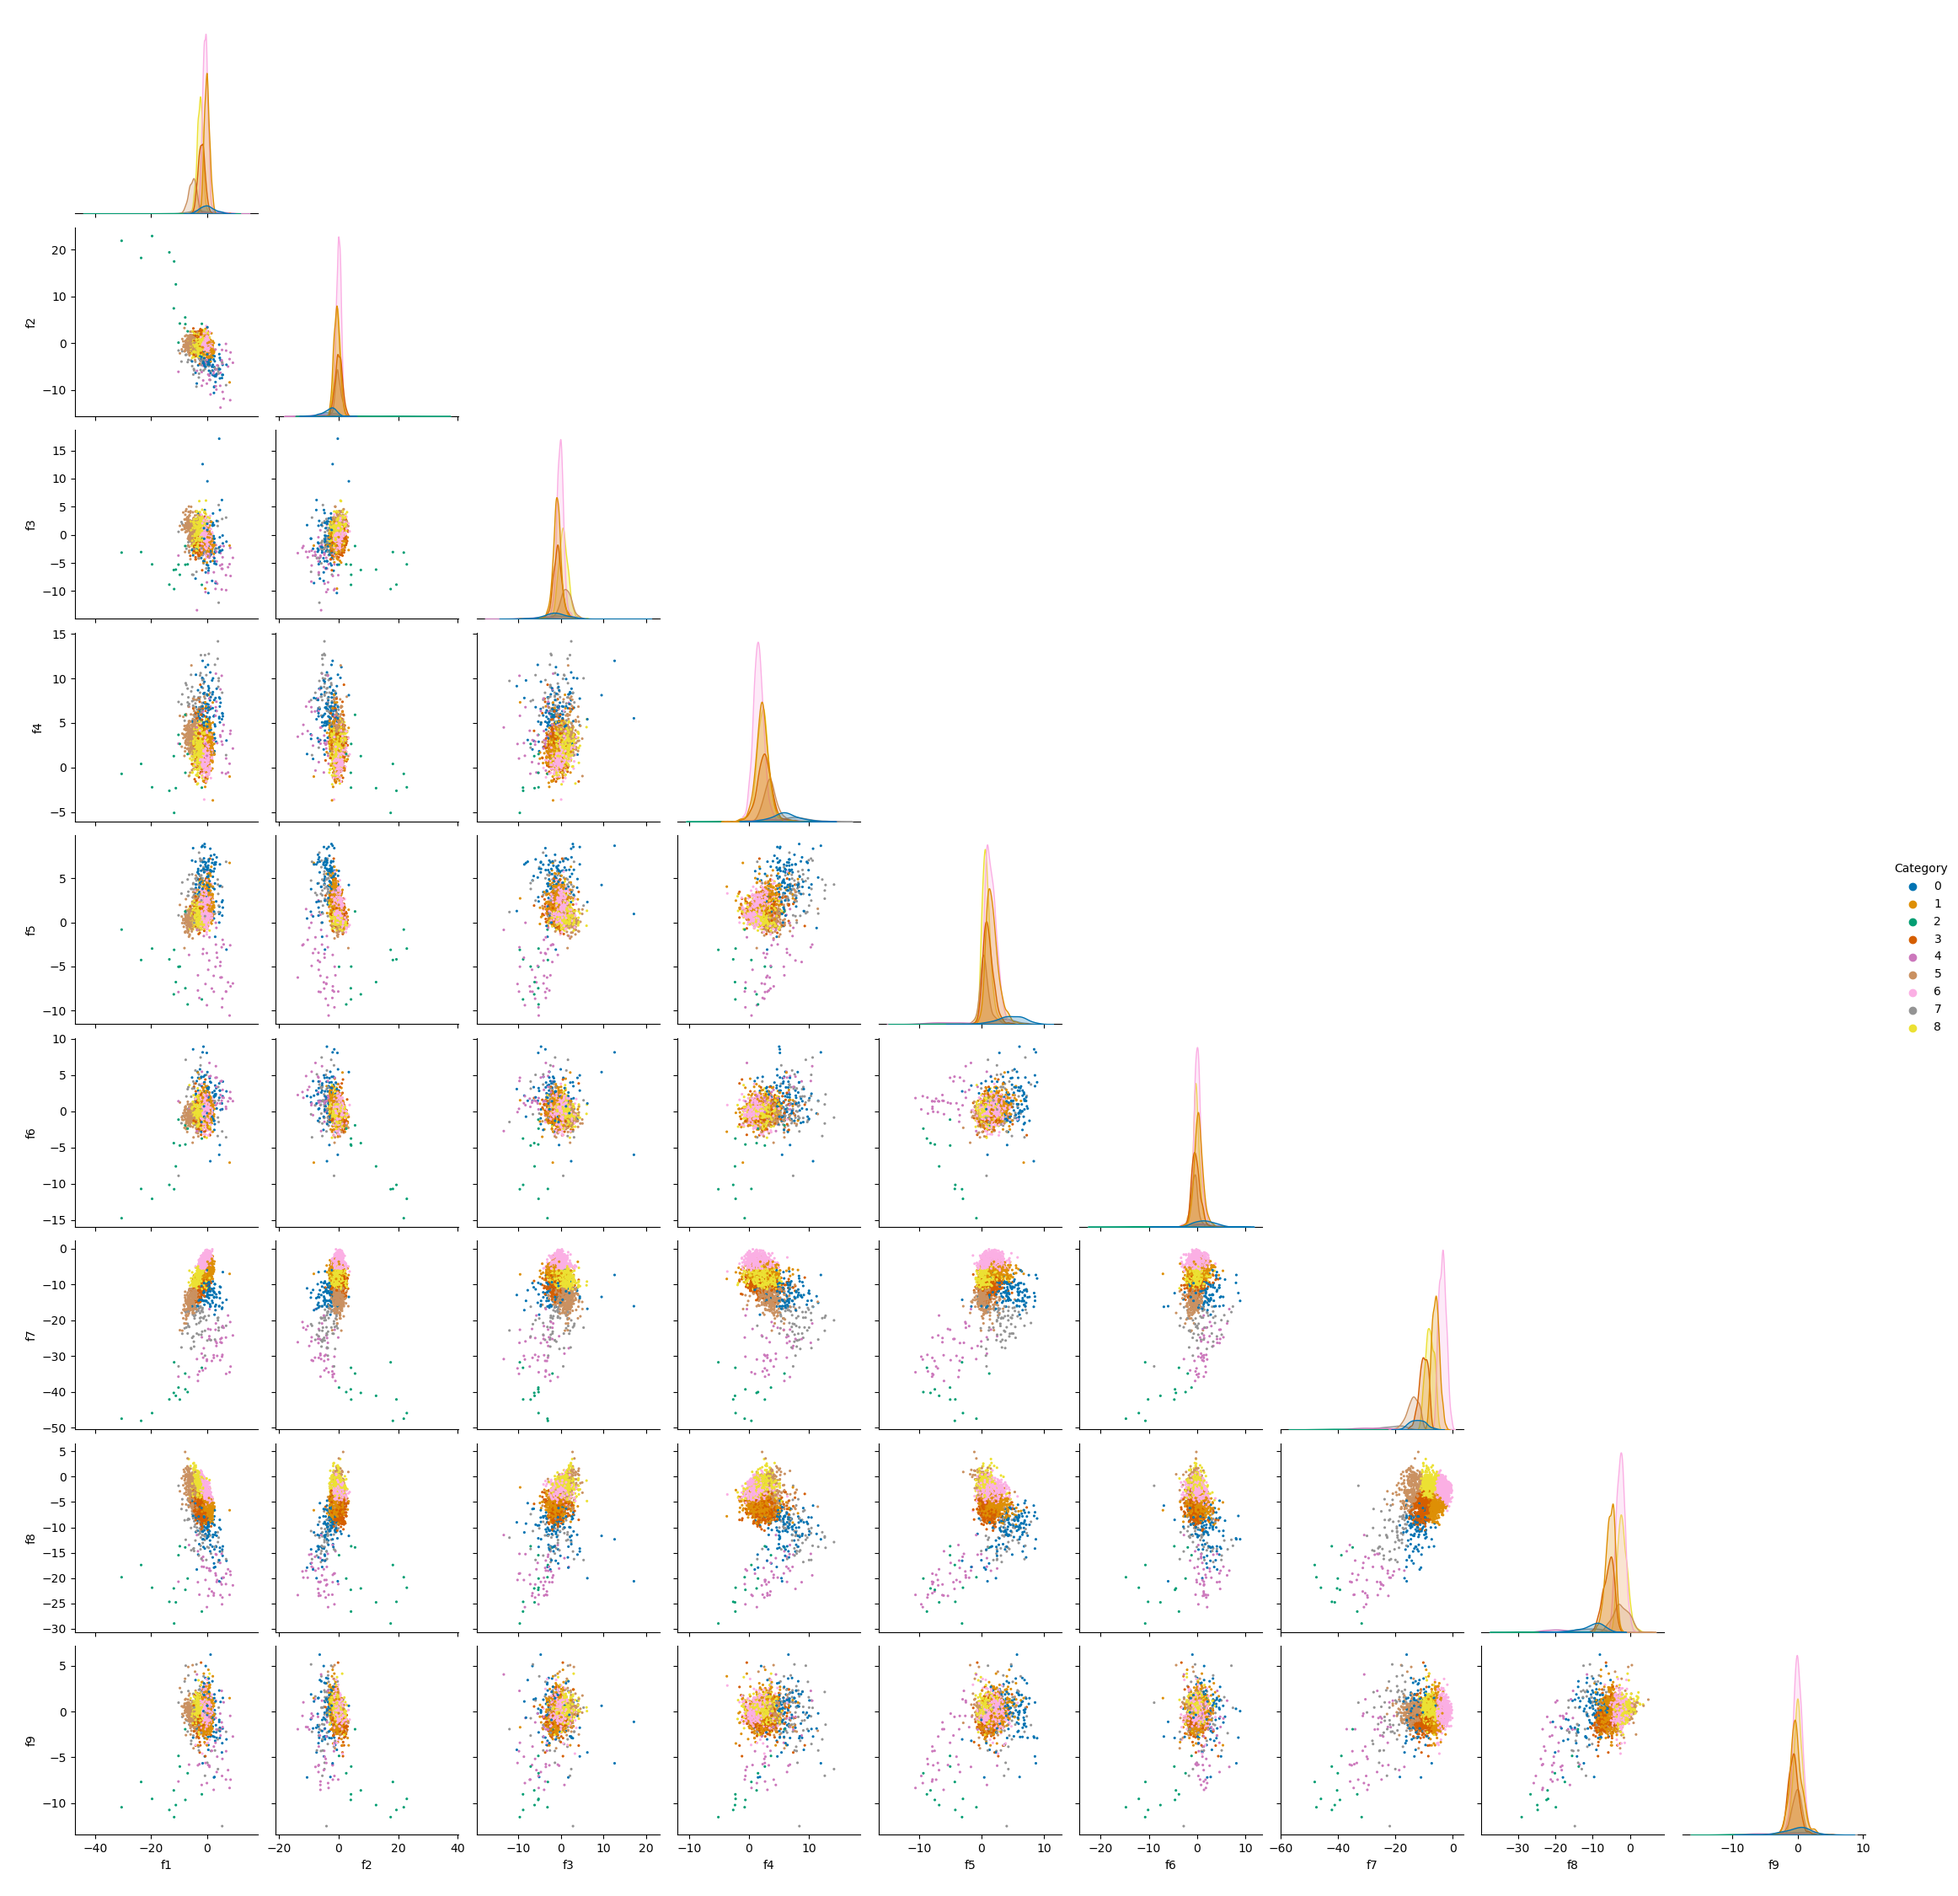
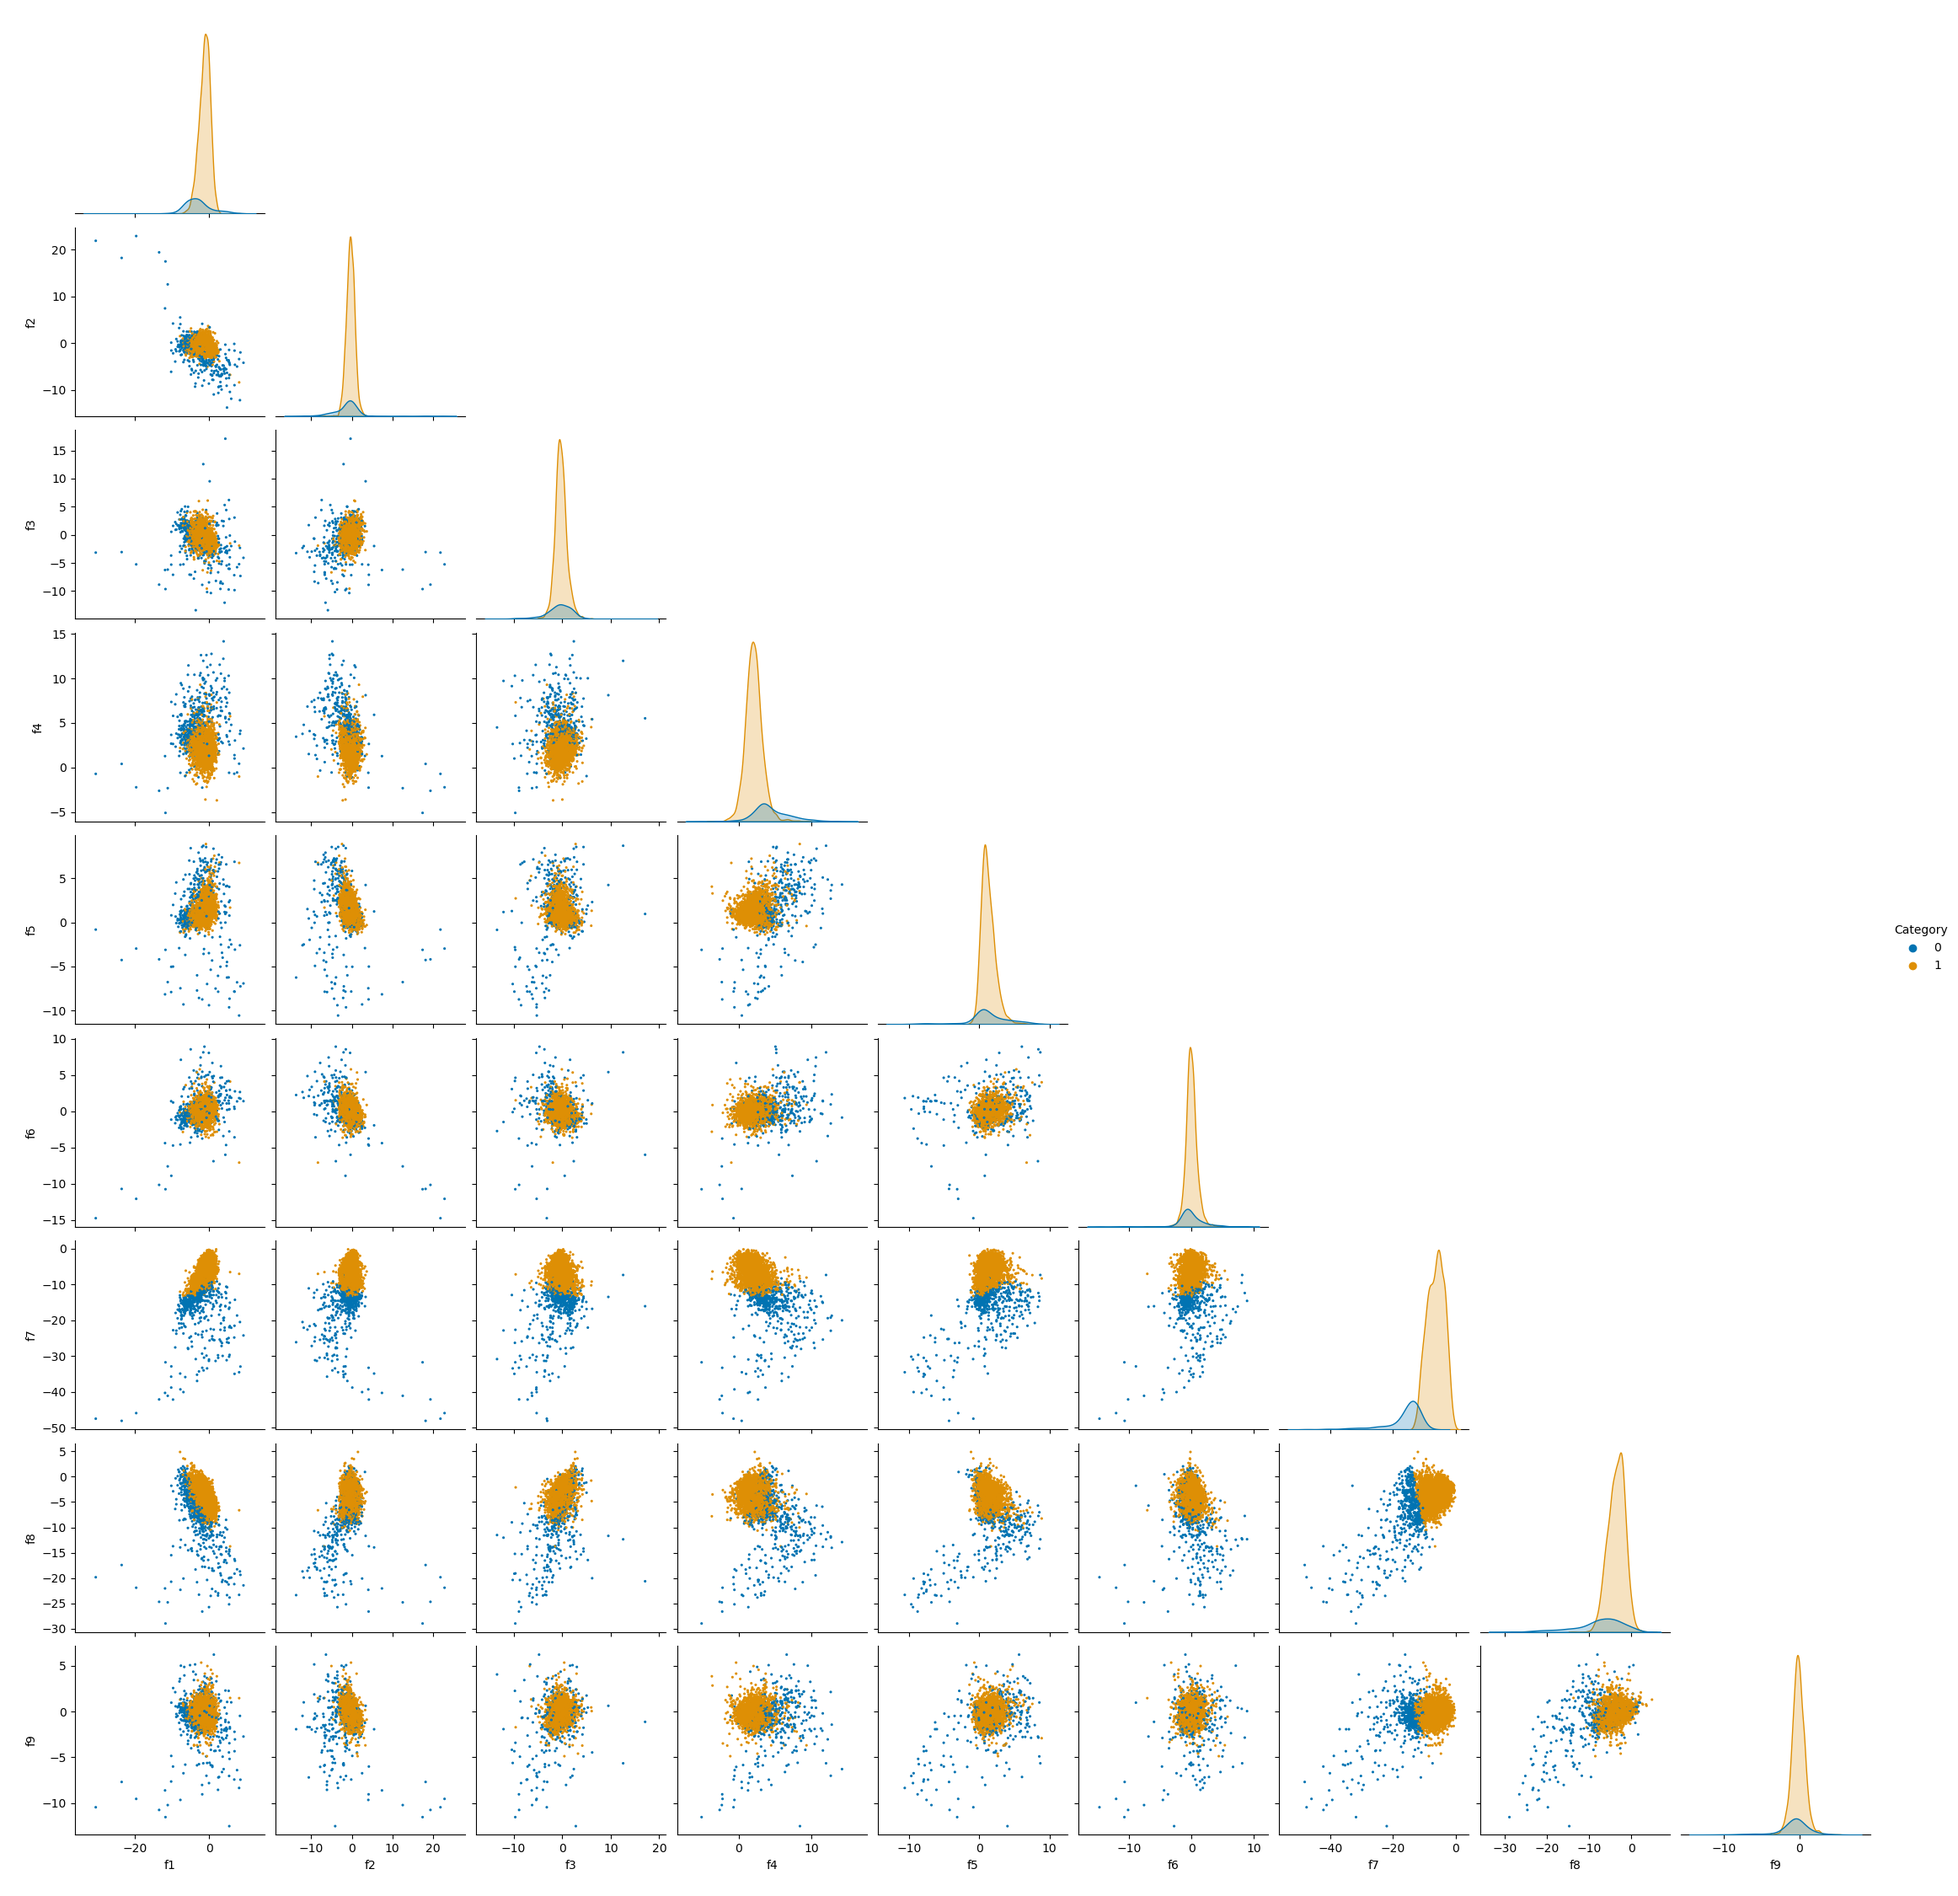
Code

diff --git a/property_comparison.py b/property_comparison.py
@@ -9,25 +9,34 @@ from sklearn.cluster import KMeans
 from matplotlib import image as mpimg
 
 
+# extracted_features = np.flipud(np.rot90(extracted_features_original))
+
+
+# set the encoding dimension (number of extracted features)
+encoding_dim = 9
+
+
 
 # load the extracted features
-extracted_features_original = np.load("Features/9_features_new.npy")
+extracted_features = np.load("Features/" + str(encoding_dim) + "_features_new.npy")
+
+# perform clustering
+kmeans = KMeans(n_clusters=2, random_state=0, n_init='auto')
+
+# extract the clusters for each galaxy
+clusters = kmeans.fit_predict(extracted_features)
+
+centers = kmeans.cluster_centers_
 
 
-extracted_features = np.flipud(np.rot90(extracted_features_original))
 
-
-# k means clustering for the extracted features
-kmeans = KMeans(n_clusters=9, random_state=0, n_init='auto')
-
-# find which cluster each galaxy belongs to
-clusters = kmeans.fit_predict(extracted_features_original)
-
-# find the center of each cluster
-centers = kmeans.cluster_centers_(extracted_features_original)
-
-print(clusters.)
+print(clusters)
+print(clusters.shape)
 print(centers)
+print(centers.shape)
+
+
+# group_1 = df.loc[df['Cluster'] == 3, 'GalaxyID']
 
 
 # load the two excel files into dataframes
@@ -60,10 +69,45 @@ df["Cluster"] = clusters
 
 print(df)
 
+group_1 = df.loc[df["Cluster"] == 0, "GalaxyID"].tolist()
+group_2 = df.loc[df["Cluster"] == 1, "GalaxyID"].tolist()
+
+print(group_1)
+print(group_2)
 
 
+fig, axs = plt.subplots(2, 6, figsize=(30,10))
 
 
+for i in range(0, 3):
+
+    image = mpimg.imread("/cosma7/data/Eagle/web-storage/RefL0100N1504_Subhalo/galface_" + str[group_1[i]] + ".png")
+    axs[0, i].imshow(image)
+    axs[0, i].get_xaxis().set_visible(False)
+    axs[0, i].get_yaxis().set_visible(False)
+
+    image = mpimg.imread("/cosma7/data/Eagle/web-storage/RefL0100N1504_Subhalo/galface_" + str[group_1[i+3]] + ".png")
+    axs[0, i+3].imshow(image)
+    axs[0, i+3].get_xaxis().set_visible(False)
+    axs[0, i+3].get_yaxis().set_visible(False)
+
+    image = mpimg.imread("/cosma7/data/Eagle/web-storage/RefL0100N1504_Subhalo/galface_" + str[group_2[i]] + ".png")
+    axs[1, i].imshow(image)
+    axs[1, i].get_xaxis().set_visible(False)
+    axs[1, i].get_yaxis().set_visible(False)
+
+    image = mpimg.imread("/cosma7/data/Eagle/web-storage/RefL0100N1504_Subhalo/galface_" + str[group_2[i+3]] + ".png")
+    axs[1, i+3].imshow(image)
+    axs[1, i+3].get_xaxis().set_visible(False)
+    axs[1, i+3].get_yaxis().set_visible(False)
+
+
+axs[0,1].set_title("Group 1", pad=15)
+axs[0,4].set_title("Group 2", pad=15)
+
+
+plt.savefig("Plots/2_cluster_originals")
+plt.show()
 
 
 

diff --git a/k_clustering.py b/k_clustering.py
@@ -11,7 +11,7 @@ from sklearn.cluster import KMeans
 
 
 # set the encoding dimension (number of extracted features)
-encoding_dim = 16
+encoding_dim = 9
 
 
 
@@ -20,24 +20,24 @@ extracted_features = np.load("Features/" + str(encoding_dim) + "_features_new.np
 
 
 
-# stores an empty list to contain all the image data to train the model
-all_images = []
-
-# load the supplemental file into a dataframe
-df = pd.read_csv("stab3510_supplemental_file/table1.csv", comment="#")
-
-print(df.shape)
-
-# loop through each galaxy in the supplmental file
-for i, galaxy in enumerate(df["GalaxyID"].tolist()):
-
-    filename = "galface_" + str(galaxy) + ".png"
-
-    image = mpimg.imread("/cosma7/data/Eagle/web-storage/RefL0100N1504_Subhalo/" + filename)
-    all_images.append(image)
-
-
-print(np.array(all_images).shape)
+# # stores an empty list to contain all the image data to train the model
+# all_images = []
+#
+# # load the supplemental file into a dataframe
+# df = pd.read_csv("stab3510_supplemental_file/table1.csv", comment="#")
+#
+# print(df.shape)
+#
+# # loop through each galaxy in the supplmental file
+# for i, galaxy in enumerate(df["GalaxyID"].tolist()):
+#
+#     filename = "galface_" + str(galaxy) + ".png"
+#
+#     image = mpimg.imread("/cosma7/data/Eagle/web-storage/RefL0100N1504_Subhalo/" + filename)
+#     all_images.append(image)
+#
+#
+# print(np.array(all_images).shape)
 
 
 
